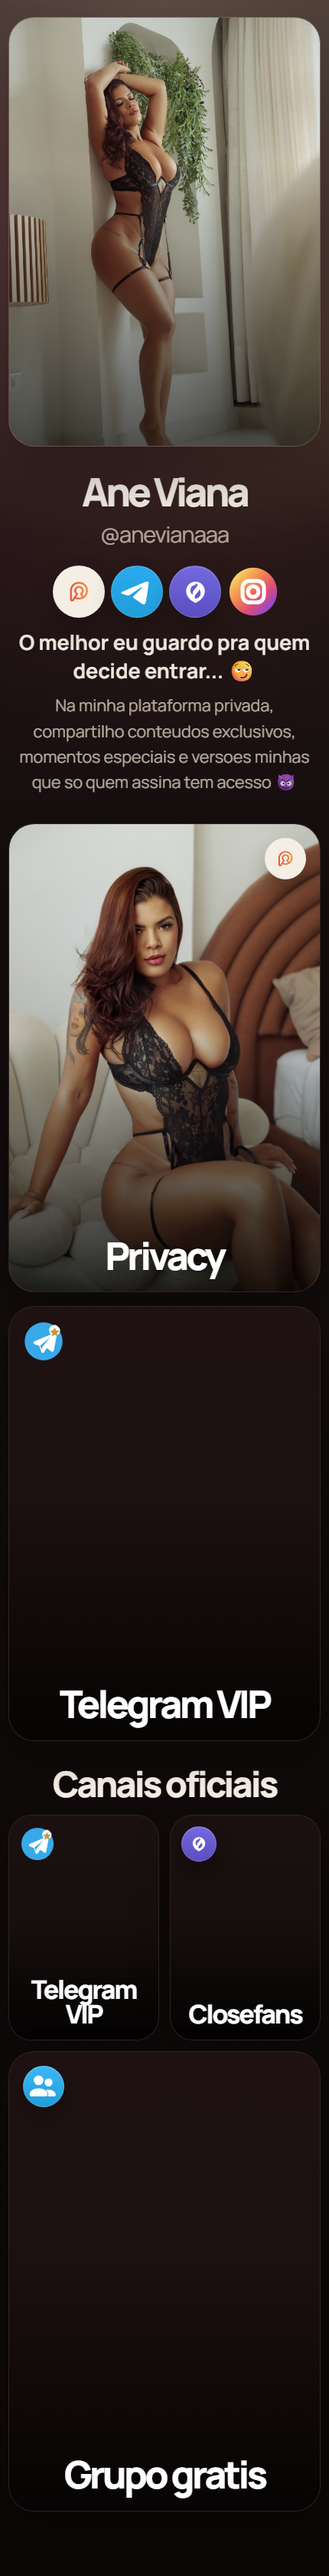
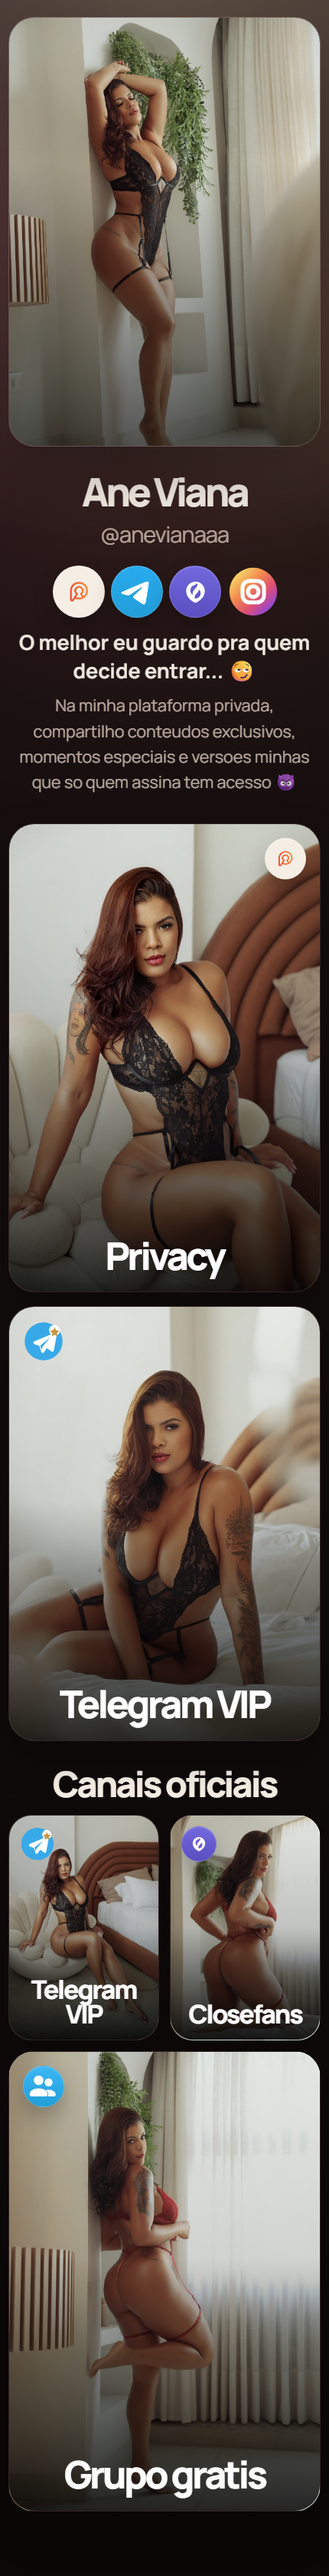
Fix missing variation 6 card images

diff --git a/variation-6.html b/variation-6.html
@@ -290,6 +290,17 @@
       object-position: center 20%;
     }
 
+    .feature-card--grupo {
+      background-image: var(--card-image);
+      background-position: center 20%;
+      background-repeat: no-repeat;
+      background-size: cover;
+    }
+
+    .feature-card--grupo > img {
+      opacity: 0;
+    }
+
     .card-mark {
       position: absolute;
       top: 18px;
@@ -1101,6 +1112,17 @@
       object-position: center 20%;
     }
 
+    .mini-card--closefans {
+      background-image: var(--card-image);
+      background-position: center 20%;
+      background-repeat: no-repeat;
+      background-size: cover;
+    }
+
+    .mini-card--closefans > img {
+      opacity: 0;
+    }
+
     .mini-card-copy {
       position: absolute;
       left: 0;
@@ -1457,7 +1479,7 @@
               <img src="assets/privacy-thumb.png" alt="" decoding="async">
             </span>
           </div>
-          <img src="midias ane/IMG_4419.JPG" alt="Privacy da Ane Viana" loading="eager" fetchpriority="high" decoding="async">
+          <img src="midias ane/IMG_4419-web.jpg" alt="Privacy da Ane Viana" loading="eager" fetchpriority="high" decoding="async">
           <div class="card-copy">
             <h2>Privacy</h2>
           </div>
@@ -1475,7 +1497,7 @@
               </svg>
             </span>
           </div>
-          <img src="midias ane/IMG_4420.JPG" alt="Telegram VIP da Ane Viana" loading="eager" fetchpriority="high" decoding="async">
+          <img src="midias ane/IMG_4420-web.jpg" alt="Telegram VIP da Ane Viana" loading="eager" fetchpriority="high" decoding="async">
           <div class="card-copy">
             <h2>Telegram VIP</h2>
           </div>
@@ -1501,13 +1523,13 @@
                   </svg>
                 </span>
               </div>
-              <img src="midias ane/IMG_4418.JPG" alt="Telegram VIP da Ane Viana" loading="eager" fetchpriority="high" decoding="async">
+              <img src="midias ane/IMG_4418-web.jpg" alt="Telegram VIP da Ane Viana" loading="eager" fetchpriority="high" decoding="async">
               <div class="mini-card-copy">
                 <h3>Telegram VIP</h3>
               </div>
             </a>
 
-            <a class="mini-card mini-card--closefans" href="https://close.fans/aneviana" target="_blank" rel="noopener noreferrer">
+            <a class="mini-card mini-card--closefans" href="https://close.fans/aneviana" target="_blank" rel="noopener noreferrer" style="--card-image:url('midias ane/IMG_4424-web.jpg');">
               <div class="mini-badge" aria-hidden="true">
                 <span class="badge-media badge-media--closefans badge-media--mini">
                   <svg viewBox="0 0 24 24" fill="#fff">
@@ -1515,14 +1537,14 @@
                   </svg>
                 </span>
               </div>
-              <img src="midias ane/IMG_4424.JPG" alt="Closefans da Ane Viana" loading="eager" fetchpriority="high" decoding="async">
+              <img src="midias ane/IMG_4424-web.jpg" alt="Closefans da Ane Viana" loading="eager" fetchpriority="high" decoding="async">
               <div class="mini-card-copy">
                 <h3>Closefans</h3>
               </div>
             </a>
           </div>
 
-          <a class="feature-card feature-card--grupo editorial-feature" href="https://t.me/+5xQTS-lXA0c3ZGUx" target="_blank" rel="noopener noreferrer">
+          <a class="feature-card feature-card--grupo editorial-feature" href="https://t.me/+5xQTS-lXA0c3ZGUx" target="_blank" rel="noopener noreferrer" style="--card-image:url('midias ane/IMG_4423-web.jpg');">
             <div class="card-mark" aria-hidden="true">
               <span class="badge-media badge-media--grupo badge-media--mark">
                 <svg viewBox="0 0 24 24" fill="none">
@@ -1530,7 +1552,7 @@
                 </svg>
               </span>
             </div>
-            <img src="midias ane/IMG_4423.JPG" alt="Grupo gratis da Ane Viana" loading="eager" fetchpriority="high" decoding="async">
+            <img src="midias ane/IMG_4423-web.jpg" alt="Grupo gratis da Ane Viana" loading="eager" fetchpriority="high" decoding="async">
             <div class="card-copy">
               <h2>Grupo gratis</h2>
             </div>

diff --git a/public/index.html b/public/index.html
@@ -290,6 +290,17 @@
       object-position: center 20%;
     }
 
+    .feature-card--grupo {
+      background-image: var(--card-image);
+      background-position: center 20%;
+      background-repeat: no-repeat;
+      background-size: cover;
+    }
+
+    .feature-card--grupo > img {
+      opacity: 0;
+    }
+
     .card-mark {
       position: absolute;
       top: 18px;
@@ -1101,6 +1112,17 @@
       object-position: center 20%;
     }
 
+    .mini-card--closefans {
+      background-image: var(--card-image);
+      background-position: center 20%;
+      background-repeat: no-repeat;
+      background-size: cover;
+    }
+
+    .mini-card--closefans > img {
+      opacity: 0;
+    }
+
     .mini-card-copy {
       position: absolute;
       left: 0;
@@ -1457,7 +1479,7 @@
               <img src="assets/privacy-thumb.png" alt="" decoding="async">
             </span>
           </div>
-          <img src="media/IMG_4419.JPG" alt="Privacy da Ane Viana" loading="eager" fetchpriority="high" decoding="async">
+          <img src="media/IMG_4419-web.jpg" alt="Privacy da Ane Viana" loading="eager" fetchpriority="high" decoding="async">
           <div class="card-copy">
             <h2>Privacy</h2>
           </div>
@@ -1475,7 +1497,7 @@
               </svg>
             </span>
           </div>
-          <img src="media/IMG_4420.JPG" alt="Telegram VIP da Ane Viana" loading="eager" fetchpriority="high" decoding="async">
+          <img src="media/IMG_4420-web.jpg" alt="Telegram VIP da Ane Viana" loading="eager" fetchpriority="high" decoding="async">
           <div class="card-copy">
             <h2>Telegram VIP</h2>
           </div>
@@ -1501,13 +1523,13 @@
                   </svg>
                 </span>
               </div>
-              <img src="media/IMG_4418.JPG" alt="Telegram VIP da Ane Viana" loading="eager" fetchpriority="high" decoding="async">
+              <img src="media/IMG_4418-web.jpg" alt="Telegram VIP da Ane Viana" loading="eager" fetchpriority="high" decoding="async">
               <div class="mini-card-copy">
                 <h3>Telegram VIP</h3>
               </div>
             </a>
 
-            <a class="mini-card mini-card--closefans" href="https://close.fans/aneviana" target="_blank" rel="noopener noreferrer">
+            <a class="mini-card mini-card--closefans" href="https://close.fans/aneviana" target="_blank" rel="noopener noreferrer" style="--card-image:url('media/IMG_4424-web.jpg');">
               <div class="mini-badge" aria-hidden="true">
                 <span class="badge-media badge-media--closefans badge-media--mini">
                   <svg viewBox="0 0 24 24" fill="#fff">
@@ -1515,14 +1537,14 @@
                   </svg>
                 </span>
               </div>
-              <img src="media/IMG_4424.JPG" alt="Closefans da Ane Viana" loading="eager" fetchpriority="high" decoding="async">
+              <img src="media/IMG_4424-web.jpg" alt="Closefans da Ane Viana" loading="eager" fetchpriority="high" decoding="async">
               <div class="mini-card-copy">
                 <h3>Closefans</h3>
               </div>
             </a>
           </div>
 
-          <a class="feature-card feature-card--grupo editorial-feature" href="https://t.me/+5xQTS-lXA0c3ZGUx" target="_blank" rel="noopener noreferrer">
+          <a class="feature-card feature-card--grupo editorial-feature" href="https://t.me/+5xQTS-lXA0c3ZGUx" target="_blank" rel="noopener noreferrer" style="--card-image:url('media/IMG_4423-web.jpg');">
             <div class="card-mark" aria-hidden="true">
               <span class="badge-media badge-media--grupo badge-media--mark">
                 <svg viewBox="0 0 24 24" fill="none">
@@ -1530,7 +1552,7 @@
                 </svg>
               </span>
             </div>
-            <img src="media/IMG_4423.JPG" alt="Grupo gratis da Ane Viana" loading="eager" fetchpriority="high" decoding="async">
+            <img src="media/IMG_4423-web.jpg" alt="Grupo gratis da Ane Viana" loading="eager" fetchpriority="high" decoding="async">
             <div class="card-copy">
               <h2>Grupo gratis</h2>
             </div>
